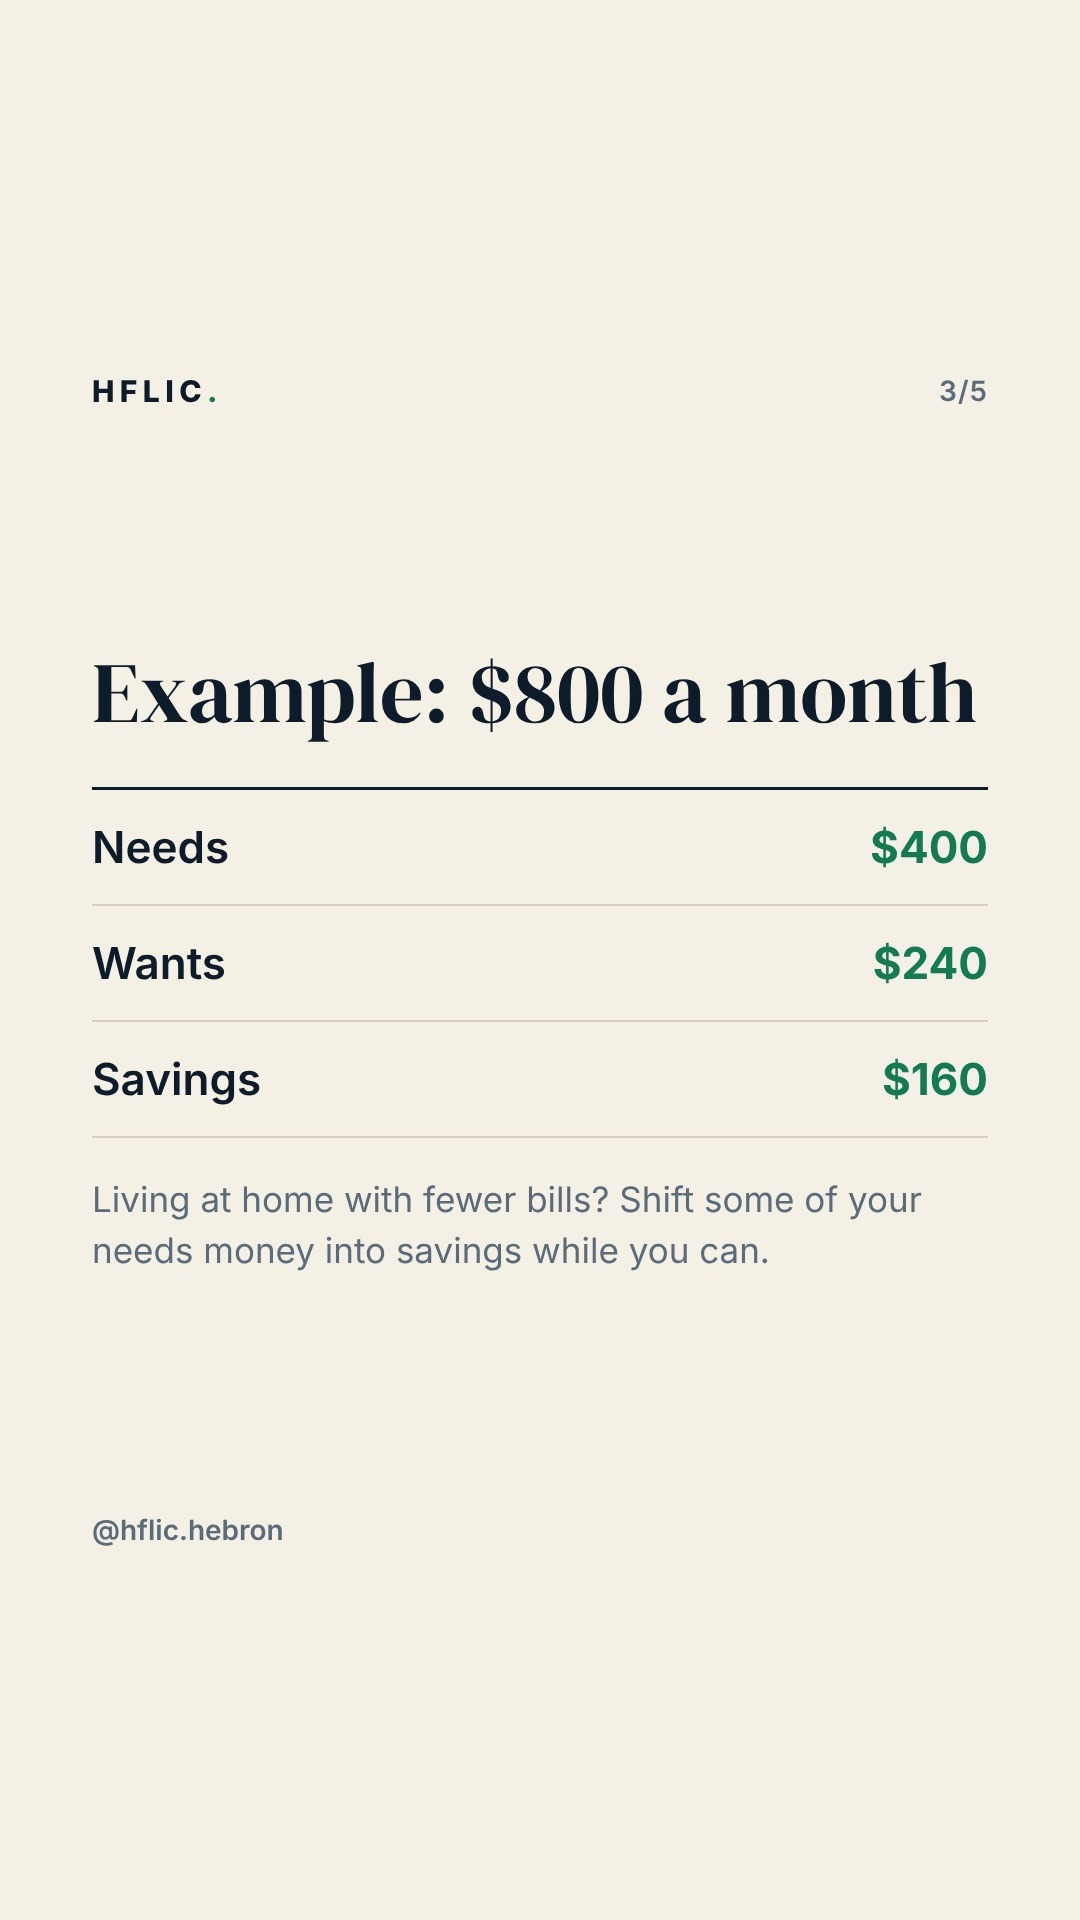
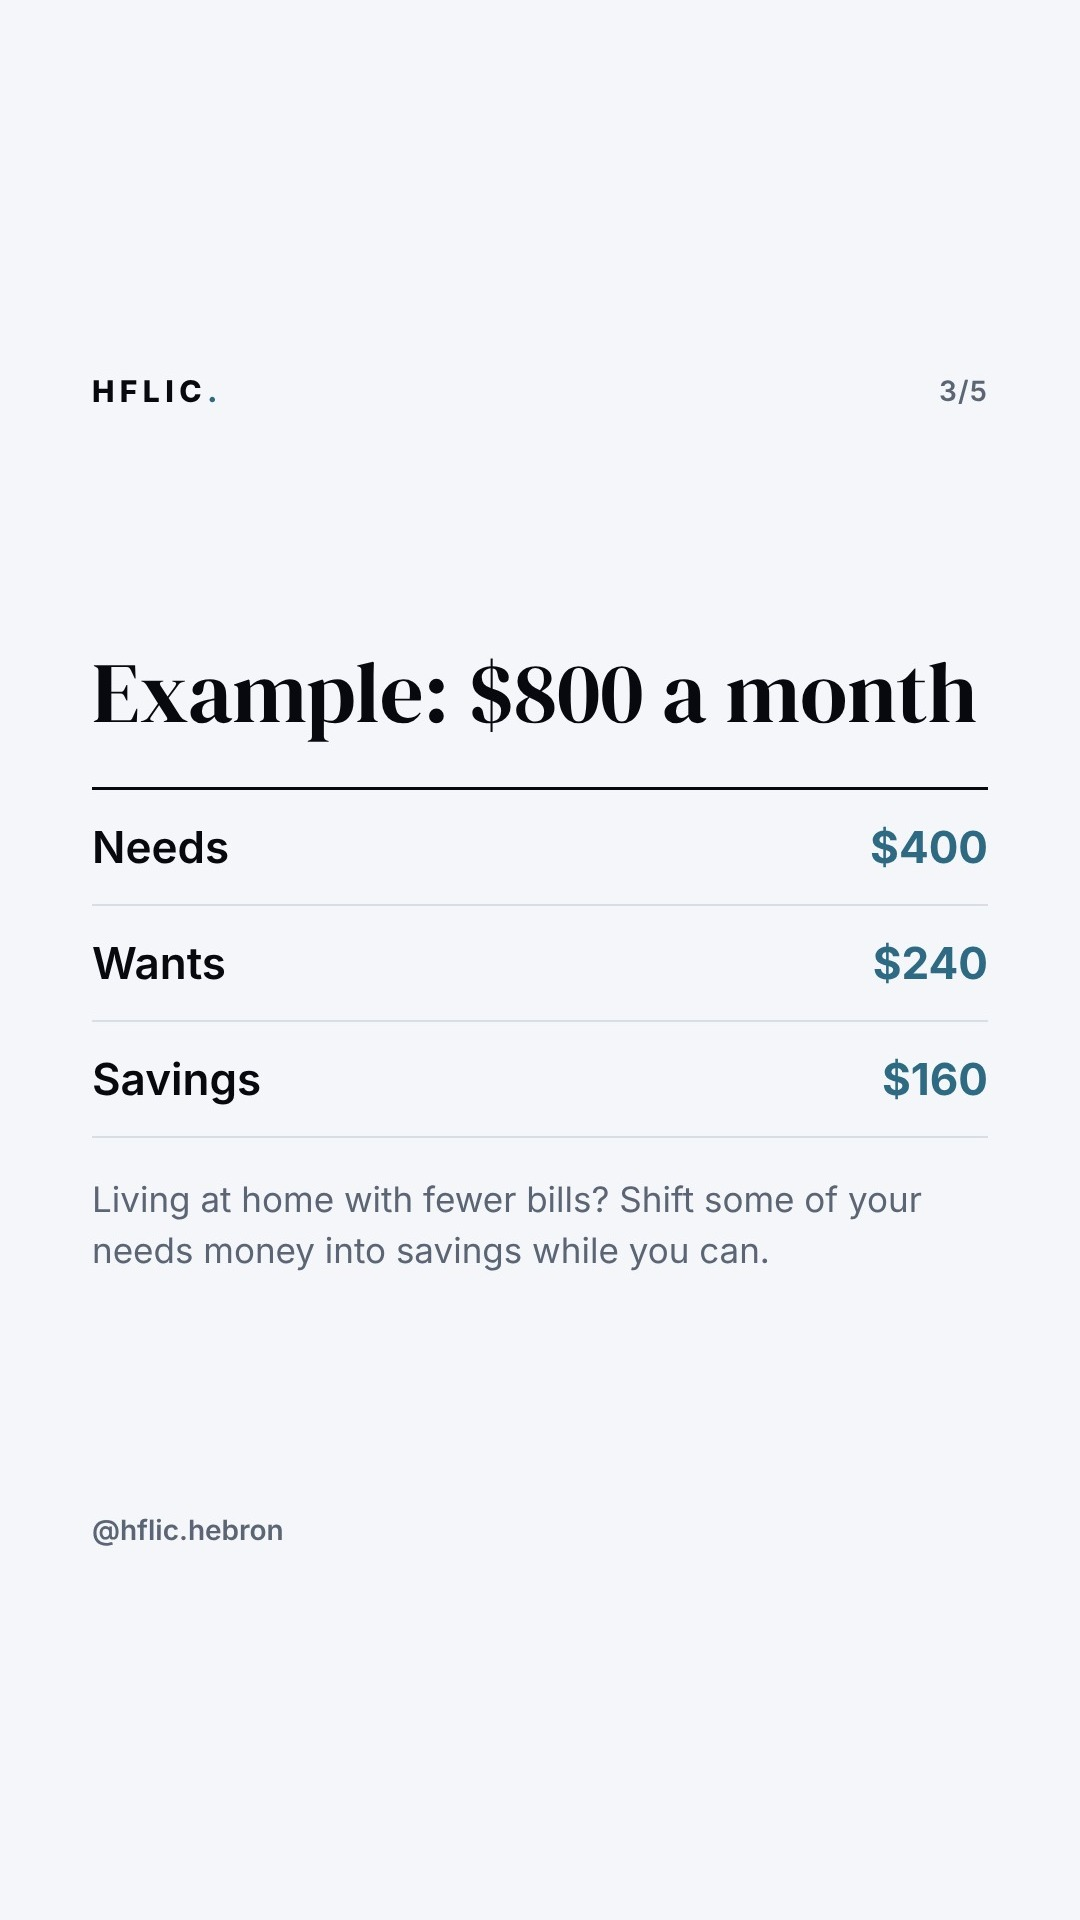
Re-render Nov 7 budget and Nov 8 index fund posts in the current brand colors; make them the renderer default
Claude-Session: https://claude.ai/code/session_01Ncq3LvH2DWQ9KxWSoEaMq6

diff --git a/tools/render.py b/tools/render.py
@@ -22,17 +22,17 @@ from playwright.sync_api import sync_playwright
 HERE = os.path.dirname(os.path.abspath(__file__))
 FONTS = os.environ.get("HFLIC_FONTS", os.path.join(HERE, "node_modules", "@fontsource"))
 
-NAVY = "#0D1B2A"
-NAVY_2 = "#16283D"
-CREAM = "#F5F0E6"
-INK = "#0D1B2A"
-MINT = "#5EE6A8"
-GREEN_DARK = "#137A52"
-MUTED_DARK = "#9FB0C3"
-MUTED_LIGHT = "#5B6B7C"
-RULE_LIGHT = "#D9D0BF"
-FILL_DARK = None  # optional CSS background (e.g. a gradient) for accents on dark slides
-FILL_LIGHT = None  # same for bars on light slides
+NAVY = "#07090F"
+NAVY_2 = "#101B30"
+CREAM = "#F4F6F9"
+INK = "#07090F"
+MINT = "#74AA80"
+GREEN_DARK = "#2F6A85"
+MUTED_DARK = "#8FA3B8"
+MUTED_LIGHT = "#5B6575"
+RULE_LIGHT = "#D8DEE6"
+FILL_DARK = "linear-gradient(90deg, #74AA80, #558CA7)"  # CSS background (e.g. a gradient) for accents on dark slides
+FILL_LIGHT = "linear-gradient(90deg, #74AA80, #558CA7)"  # same for bars on light slides
 THEME_KEYS = ("FILL_DARK", "FILL_LIGHT", "NAVY", "NAVY_2", "CREAM", "INK", "MINT", "GREEN_DARK", "MUTED_DARK", "MUTED_LIGHT", "RULE_LIGHT")
 
 def build_css():
